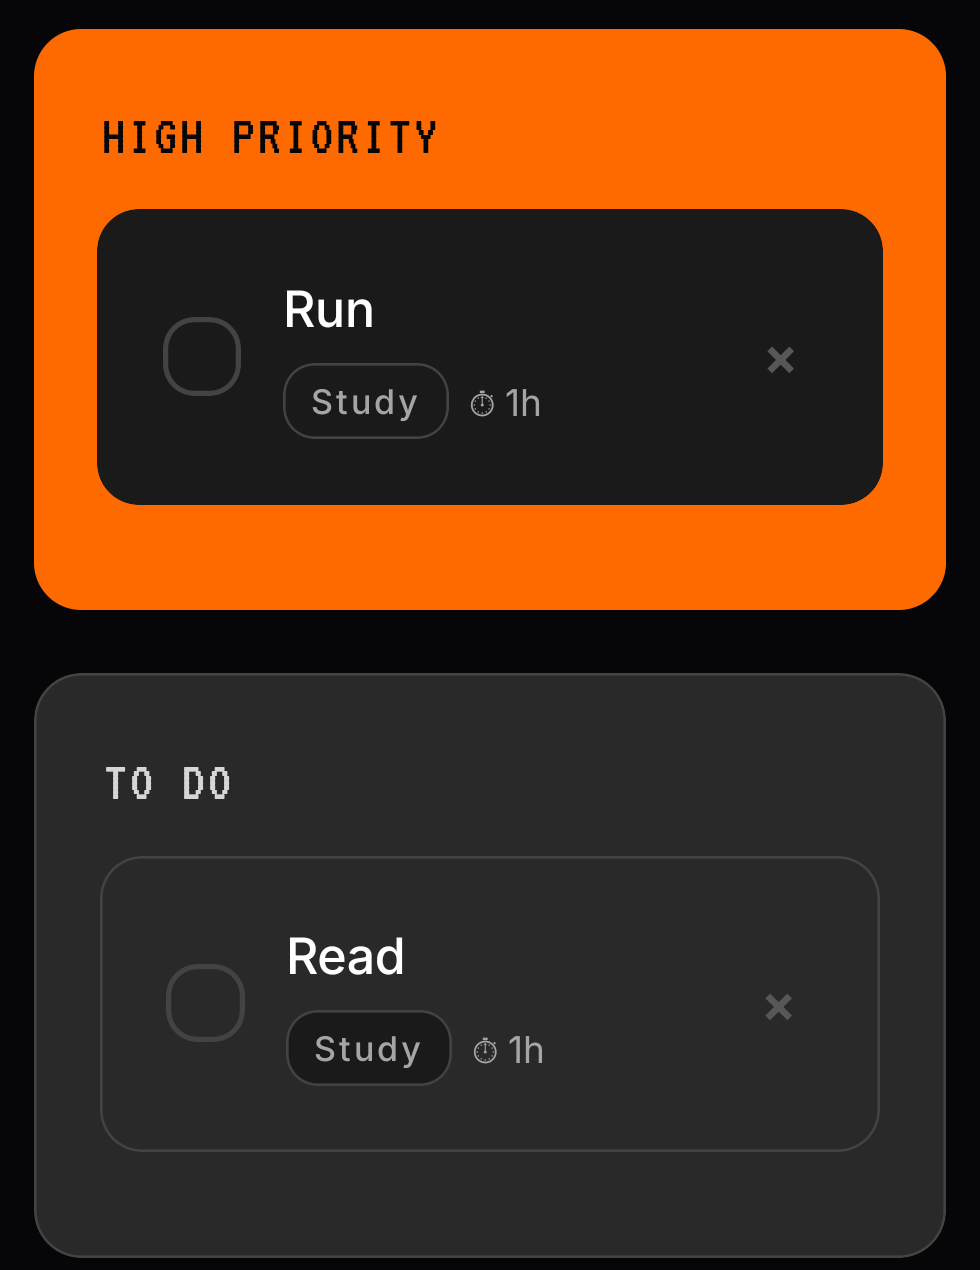
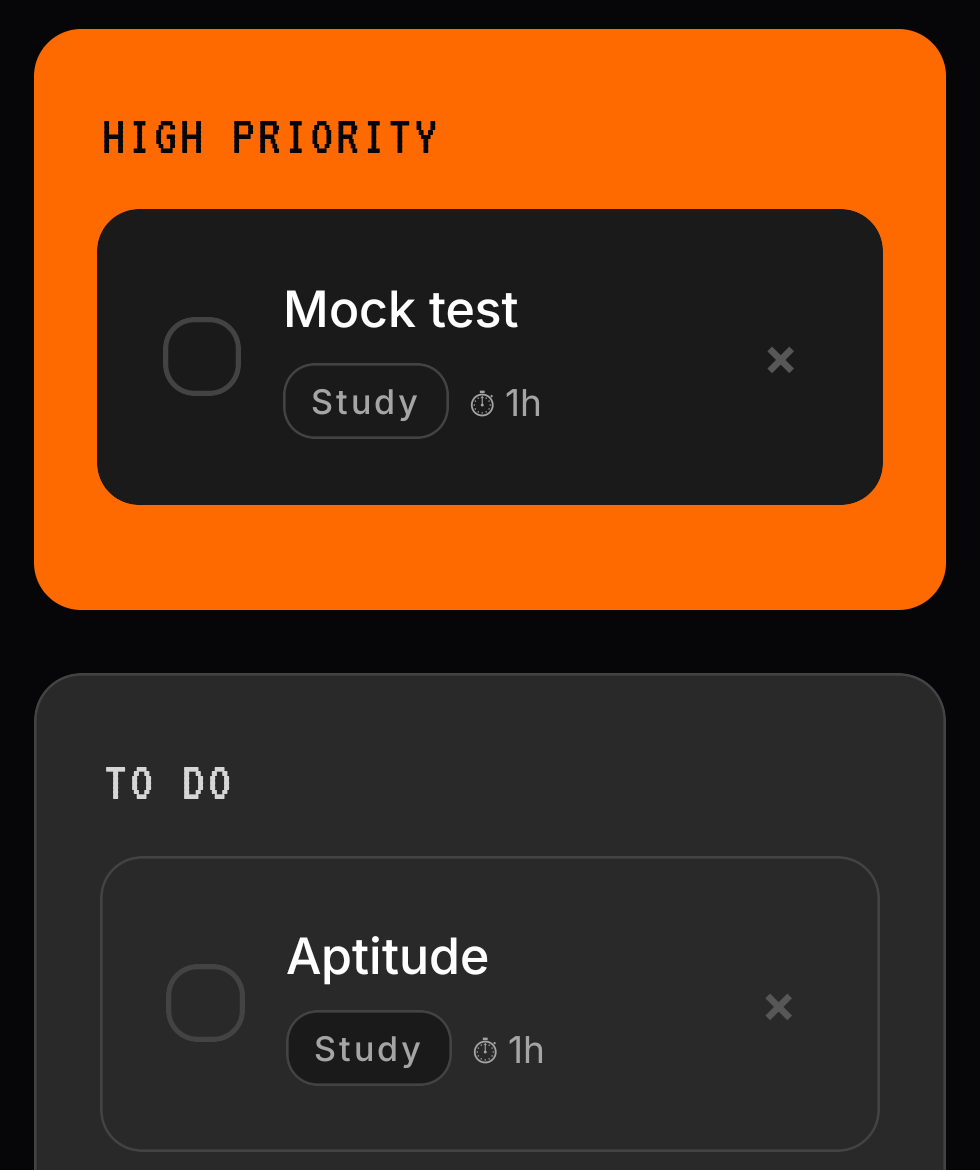
Swap in updated task-screen screenshot for walkthrough
Cropped to exclude the persistent Focus Session bar overlay so the
Today screen screenshot stays a clean shot of just the priority panels.

Claude-Session: https://claude.ai/code/session_01LCzbY9YTZFRdZcveKSNE79

diff --git a/src/screens/WalkthroughScreen.tsx b/src/screens/WalkthroughScreen.tsx
@@ -19,7 +19,7 @@ const { width: W } = Dimensions.get('window');
 // scale on RN Web (it falls back to the source's raw pixel height), so the
 // screenshot assets below are sized with explicit computed pixel dimensions.
 const TASK_IMG_W = W * 0.78;
-const TASK_IMG_H = TASK_IMG_W * (1270 / 980);
+const TASK_IMG_H = TASK_IMG_W * (1170 / 980);
 const DIAL_IMG_W = W * 0.46;
 const DIAL_IMG_H = DIAL_IMG_W * (610 / 710);
 
